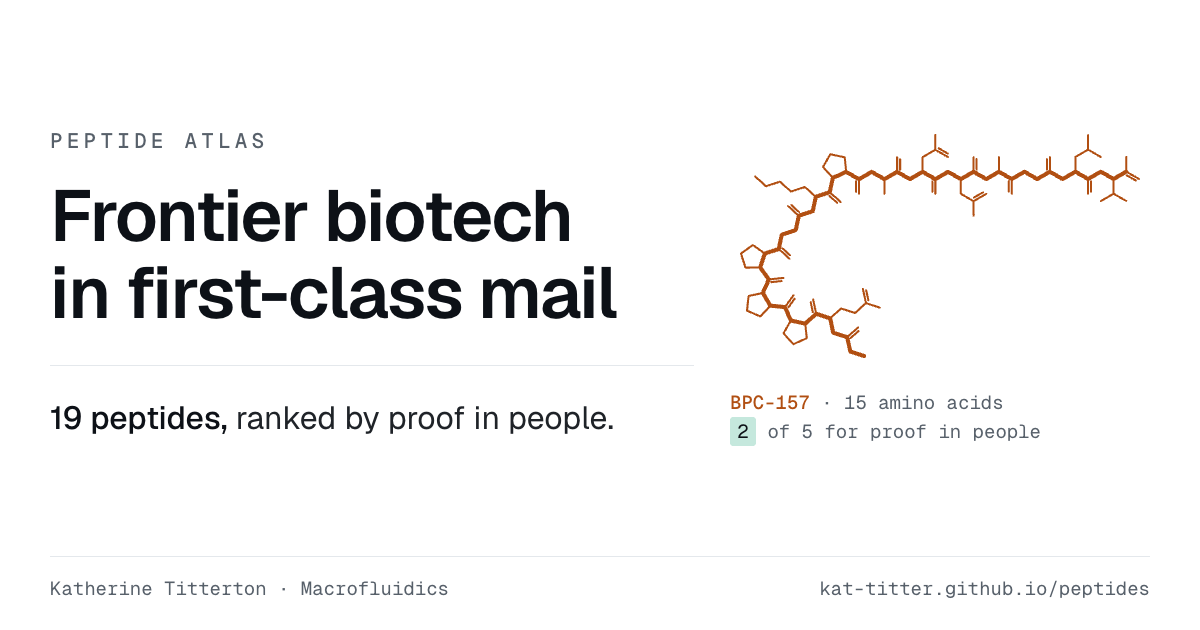
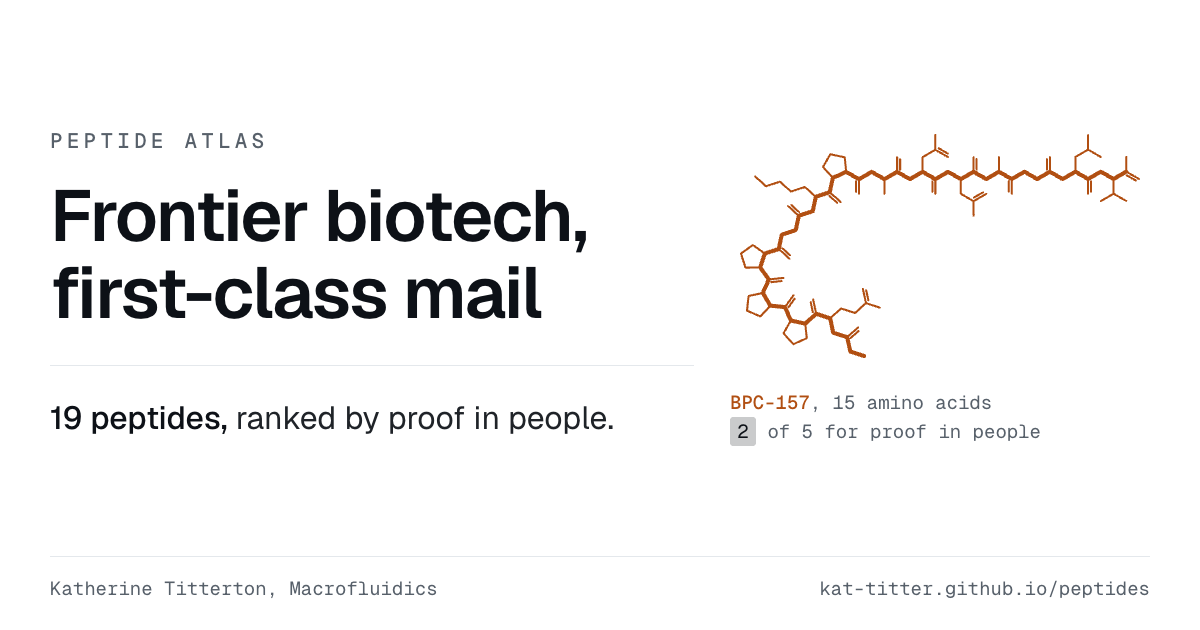
Atlas from peptide-atlas 69d124b

diff --git a/index.html b/index.html
@@ -6,14 +6,14 @@
 <meta property="og:title" content="Peptide Atlas: messages, mechanisms and money">
 <meta property="og:description" content="Nineteen peptides, from semaglutide to BPC-157, ranked by how much proof there is in people: what each one does in a cell, and who keeps the margin.">
 <meta property="og:url" content="https://kat-titter.github.io/peptides/">
-<meta property="og:image" content="https://kat-titter.github.io/peptides/card.png?v=233f6ade">
+<meta property="og:image" content="https://kat-titter.github.io/peptides/card.png?v=bce4da1b">
 <meta property="og:image:type" content="image/png">
 <meta property="og:image:width" content="1200">
 <meta property="og:image:height" content="630">
-<meta property="og:image:alt" content="The skeletal formula of BPC-157 in rust orange beside the words “Frontier biotech in first-class mail”, and the line “19 peptides, ranked by proof in people”.">
+<meta property="og:image:alt" content="The skeletal formula of BPC-157 in rust orange beside the words “Frontier biotech, first-class mail”, and the line “19 peptides, ranked by proof in people”.">
 <meta name="twitter:card" content="summary_large_image">
-<meta name="twitter:image" content="https://kat-titter.github.io/peptides/card.png?v=233f6ade">
-<meta name="twitter:image:alt" content="The skeletal formula of BPC-157 in rust orange beside the words “Frontier biotech in first-class mail”, and the line “19 peptides, ranked by proof in people”.">
+<meta name="twitter:image" content="https://kat-titter.github.io/peptides/card.png?v=bce4da1b">
+<meta name="twitter:image:alt" content="The skeletal formula of BPC-157 in rust orange beside the words “Frontier biotech, first-class mail”, and the line “19 peptides, ranked by proof in people”.">
 <meta name="viewport" content="width=device-width, initial-scale=1">
 <title>Peptide Atlas</title>
 <meta name="description" content="A textbook page on therapeutic peptides: what a peptide is, why the field is hot, how BPC-157, MOTS-c and the GLP-1 class act in the cell, the evidence behind each, the supply chain and the money. Verified sources, November 2026.">
@@ -21,10 +21,14 @@
 <link href="https://fonts.googleapis.com/css2?family=Geist:wght@400;500;600&family=Geist+Mono:wght@400;500&display=swap" rel="stylesheet">
 <style>
 :root{
-  --paper:#ffffff; --ink:#0d1117; --body:#1f2328; --muted:#57606a; --hair:#e4e8ec; --mark:#ebf3dc;
-    --glp:#ec3c6e; --smx:#9c1559; --bpc:#b14f12; --ela:#e5850f; --mtx:#11607f; --ghk:#1ca2c8; --mots:#4269e2;
-    --gb:#c4901c; --gb-g:color-mix(in srgb,var(--gb) 30%,var(--paper)); --gb-w:color-mix(in srgb,var(--gb) 55%,var(--paper));
-    --green:#0f8f6c; --green-s:color-mix(in srgb,var(--green) 22%,var(--paper)); --on:var(--ink);
+  --paper:#ffffff; --ink:#0d1117; --body:#1f2328; --muted:#57606a; --hair:#e4e8ec;
+    --glp:#ec3c6e; --bpc:#b14f12; --mots:#4269e2; --mark:#ebf3dc;
+  --green:color-mix(in srgb,var(--ink) 78%,var(--paper));
+  --smx:color-mix(in oklch,var(--glp) 62%,var(--ink));
+  --ela:color-mix(in oklch,var(--bpc) 62%,var(--paper)); --gb:color-mix(in oklch,var(--bpc) 60%,var(--ink));
+  --mtx:color-mix(in oklch,var(--mots) 60%,var(--ink)); --ghk:color-mix(in oklch,var(--mots) 62%,var(--paper));
+  --gb-g:color-mix(in srgb,var(--gb) 30%,var(--paper)); --gb-w:color-mix(in srgb,var(--gb) 55%,var(--paper));
+    --green-s:color-mix(in srgb,var(--green) 22%,var(--paper)); --on:var(--paper);
   --wash:color-mix(in srgb,var(--ink) 6%,var(--paper)); --xna:color-mix(in srgb,var(--ink) 16%,var(--paper));
   --glp-s:color-mix(in srgb,var(--glp) 22%,var(--paper)); --smx-s:color-mix(in srgb,var(--smx) 22%,var(--paper)); --bpc-s:color-mix(in srgb,var(--bpc) 22%,var(--paper)); --ela-s:color-mix(in srgb,var(--ela) 22%,var(--paper)); --mtx-s:color-mix(in srgb,var(--mtx) 22%,var(--paper)); --ghk-s:color-mix(in srgb,var(--ghk) 22%,var(--paper)); --mots-s:color-mix(in srgb,var(--mots) 22%,var(--paper));
     --ghk1:color-mix(in srgb,var(--ghk) 12%,var(--paper)); --ghk2:color-mix(in srgb,var(--ghk) 32%,var(--paper)); --ghk3:color-mix(in srgb,var(--ghk) 58%,var(--paper));
@@ -33,16 +37,12 @@
     --text:780px; --wide:740px; --fig-inset:2.5641%;     color-scheme:light dark;
 }
 @media screen and (prefers-color-scheme:dark){:root:not([data-theme="light"]){
-  --paper:#0d1117; --ink:#e6edf3; --body:#d1d9e0; --muted:#9198a1; --hair:#262c33; --mark:#262b22;
-  --glp:#f76286; --smx:#c2306f; --bpc:#bd5a30; --ela:#f8b43c; --mtx:#35789c; --ghk:#5accf2; --mots:#6b8dfb;
-  --gb:#d8ad45;
-  --green:#3fe0a0; --on:var(--paper);
+  --paper:#0d1117; --ink:#e6edf3; --body:#d1d9e0; --muted:#9198a1; --hair:#262c33;
+  --glp:#f76286; --bpc:#bd5a30; --mots:#6b8dfb; --mark:#262b22;
   --ghk2:color-mix(in srgb,var(--ghk) 30%,var(--paper)); --ghk3:color-mix(in srgb,var(--ghk) 48%,var(--paper));}}
 @media screen{:root[data-theme="dark"]{
-  --paper:#0d1117; --ink:#e6edf3; --body:#d1d9e0; --muted:#9198a1; --hair:#262c33; --mark:#262b22;
-  --glp:#f76286; --smx:#c2306f; --bpc:#bd5a30; --ela:#f8b43c; --mtx:#35789c; --ghk:#5accf2; --mots:#6b8dfb;
-  --gb:#d8ad45;
-  --green:#3fe0a0; --on:var(--paper);
+  --paper:#0d1117; --ink:#e6edf3; --body:#d1d9e0; --muted:#9198a1; --hair:#262c33;
+  --glp:#f76286; --bpc:#bd5a30; --mots:#6b8dfb; --mark:#262b22;
   --ghk2:color-mix(in srgb,var(--ghk) 30%,var(--paper)); --ghk3:color-mix(in srgb,var(--ghk) 48%,var(--paper));}}
 
 *{box-sizing:border-box}
@@ -131,7 +131,8 @@ details[open] summary{margin-bottom:16px}
 #proofstrip li[data-t="0"] b{color:var(--muted)}
 #proofstrip span{font:400 var(--s1)/1.5 var(--sans); color:var(--body)}
 #proofstrip a{text-decoration:none; border-bottom:1px solid var(--hair)}
-#proofstrip em{font-style:normal; color:color-mix(in srgb,var(--c) 72%,var(--ink))}
+#proofstrip em{font-style:normal; color:color-mix(in srgb,var(--c) 62%,var(--ink))}
+#proofstrip i{font:400 var(--s0)/1.5 var(--mono); font-style:normal; color:var(--muted); margin-right:8px}
 #proofkey{margin:8px 0 0; font-size:var(--s0)}
 @media (max-width:720px){
   #proofstrip{margin-top:12px} #proofkey{margin-top:6px}
@@ -348,14 +349,14 @@ requestAnimationFrame(loop);
 </script>
 </figure>
   <ol id="proofstrip" aria-label="The 19 peptides on this page, ranked 5 to 0 by how much proof there is in people">
-  <li data-t="5"><b>5</b><span><a href="#glp1"><em style="--c:var(--glp)">semaglutide</em></a>, <a href="#glp1"><em style="--c:var(--glp)">tirzepatide</em></a>, <em style="--c:var(--ela)">elamipretide</em>, bremelanotide, tesamorelin</span></li>
-  <li data-t="4"><b>4</b><span><a href="#glp1"><em style="--c:var(--glp)">retatrutide</em></a>, thymosin α1</span></li>
-  <li data-t="3"><b>3</b><span>CJC-1295, thymosin β4 / TB-500, <a href="#motsc"><em style="--c:var(--mots)">MOTS-c</em></a>, AOD-9604</span></li>
-  <li data-t="2"><b>2</b><span><a href="#bpc157"><em style="--c:var(--bpc)">BPC-157</em></a>, <a href="#doors"><em style="--c:var(--smx)">Semax</em></a>, <a href="#doors"><em style="--c:var(--mtx)">Matrixyl (pal-KTTKS)</em></a>, <em style="--c:var(--ghk)">GHK-Cu</em></span></li>
-  <li data-t="1"><b>1</b><span>ipamorelin, epitalon</span></li>
-  <li data-t="0"><b>0</b><span>KPV, humanin</span></li>
+  <li data-t="5"><b>5</b><span><i>approved</i><a href="#glp1"><em style="--c:var(--glp)">semaglutide</em></a>, <a href="#glp1"><em style="--c:var(--glp)">tirzepatide</em></a>, <em style="--c:var(--ela)">elamipretide</em>, bremelanotide, tesamorelin</span></li>
+  <li data-t="4"><b>4</b><span><i>randomised trials</i><a href="#glp1"><em style="--c:var(--glp)">retatrutide</em></a>, thymosin α1</span></li>
+  <li data-t="3"><b>3</b><span><i>small human studies</i>CJC-1295, thymosin β4 / TB-500, <a href="#motsc"><em style="--c:var(--mots)">MOTS-c</em></a>, AOD-9604</span></li>
+  <li data-t="2"><b>2</b><span><i>animals</i><a href="#bpc157"><em style="--c:var(--bpc)">BPC-157</em></a>, <a href="#doors"><em style="--c:var(--smx)">Semax</em></a>, <a href="#doors"><em style="--c:var(--mtx)">Matrixyl (pal-KTTKS)</em></a>, <em style="--c:var(--ghk)">GHK-Cu</em></span></li>
+  <li data-t="1"><b>1</b><span><i>cells</i>ipamorelin, epitalon</span></li>
+  <li data-t="0"><b>0</b><span><i>none</i>KPV, humanin</span></li>
  </ol>
-  <p class="k" id="proofkey">5 approved in people · 0 no human trial</p>
+  <p class="k" id="proofkey"><a href="#matrix">ranked by proof in people</a></p>
  </div>
 <nav aria-label="Contents"><ol><li><a href="#intro"><b>00</b>intro</a></li><li><a href="#map"><b>01</b>the cell</a></li><li><a href="#glp1"><b>02</b>GLP-1</a></li><li><a href="#motsc"><b>03</b>MOTS-c</a></li><li><a href="#bpc157"><b>04</b>BPC-157</a></li><li><a href="#doors"><b>05</b>nose, skin</a></li><li><a href="#matrix"><b>06</b>ranked</a></li><li><a href="#supply"><b>07</b>supply</a></li><li><a href="#evidence"><b>08</b>how to read</a></li><li><a href="#appendix"><b>A</b>appendix</a></li><li><a href="#refs"><b>R</b>refs</a></li></ol></nav>
 </div></div></header>
@@ -5329,7 +5330,7 @@ L 1042.3 226.6
 <section class="ch" id="matrix"><div class="wrap">
  <div class="k"><button class="fold" type="button" aria-expanded="true" aria-controls="matrix"><b>06</b><span class="vh">Every peptide here, ranked by proof in people</span></button></div>
  <h2>Every peptide here, ranked by proof in people</h2>
- <p>Darker green means more proof in people. And who paid for the dark rows? Each dark row had an owner with the money to run a trial programme. The new HHS list is all pale rows. Each scores 3 or below, and its 3s belong to a close copy (CB4211) and to eye drops of the parent protein (RGN-259) — not to the vials being sold.</p>
+ <p>Darker means more proof in people. And who paid for the dark rows? Each dark row had an owner with the money to run a trial programme. The new HHS list is all pale rows. Each scores 3 or below, and its 3s belong to a close copy (CB4211) and to eye drops of the parent protein (RGN-259) — not to the vials being sold.</p>
  <div class="linked">
  <p class="k" aria-label="site of action">click a site to pick out its peptides: <span class="key" data-k="rec" tabindex="0">membrane receptor</span> <span class="key" data-k="fib" tabindex="0">fibres and matrix</span> <span class="key" data-k="nuc" tabindex="0">nucleus</span> <span class="key" data-k="mit" tabindex="0">mitochondrion</span> <span class="key" data-k="tra" tabindex="0">transporter, other</span></p>
  <div class="scroll"><table class="mx">
@@ -5355,7 +5356,7 @@ L 1042.3 226.6
    <tr data-k="tra"><td><i class="sw" style="--c:var(--muted)"></i><b>KPV</b></td><td>3</td><td class="ph">α-MSH fragment</td><td>PepT1 (gut)</td><td class="ph">oral, topical</td><td class="ph">—</td><td data-t="0"><span class="term" tabindex="0">0<span class="tc">mouse colitis; FDA found no human exposure data<sup class="ref"><a href="#r11">11</a></sup></span></span></td><td>HHS draft (oral/topical)</td><td class="ph">mice only<sup class="ref"><a href="#r58">58</a></sup></td></tr>
    <tr data-k="mit"><td><i class="sw" style="--c:var(--muted)"></i><b>humanin</b></td><td>24</td><td class="ph">endogenous, mtDNA</td><td>cytoprotection</td><td class="ph">—</td><td class="ph">—</td><td data-t="0"><span class="term" tabindex="0">0<span class="tc">no human trial retrieved</span></span></td><td><span class="k">not nominated</span></td><td class="ph">MDP family<sup class="ref"><a href="#r52">52</a></sup></td></tr>
   </tbody></table></div>
-  <p class="k"><span class="key"><span class="tier" data-t="5" role="img" aria-label="evidence 5 of 5"><i></i><i></i><i></i><i></i><i></i></span>5 FDA approved</span> <span class="key"><span class="tier" data-t="4" role="img" aria-label="evidence 4 of 5"><i></i><i></i><i></i><i></i><i></i></span>4</span> <span class="key"><span class="tier" data-t="3" role="img" aria-label="evidence 3 of 5"><i></i><i></i><i></i><i></i><i></i></span>3</span> <span class="key"><span class="tier" data-t="2" role="img" aria-label="evidence 2 of 5"><i></i><i></i><i></i><i></i><i></i></span>2</span> <span class="key"><span class="tier" data-t="1" role="img" aria-label="evidence 1 of 5"><i></i><i></i><i></i><i></i><i></i></span>1</span> <span class="key"><span class="tier" data-t="0" role="img" aria-label="evidence 0 of 5"><i></i><i></i><i></i><i></i><i></i></span>0 none</span> <span>status from FDA's 2026-04-22 list<sup class="ref"><a href="#r11">11</a></sup> and the HHS draft<sup class="ref"><a href="#r14">14</a></sup></span></p>
+  <p class="k"><span class="key"><span class="tier" data-t="5" role="img" aria-label="evidence 5 of 5"><i></i><i></i><i></i><i></i><i></i></span>5 FDA approved</span> <span class="key"><span class="tier" data-t="4" role="img" aria-label="evidence 4 of 5"><i></i><i></i><i></i><i></i><i></i></span>4 randomised trials</span> <span class="key"><span class="tier" data-t="3" role="img" aria-label="evidence 3 of 5"><i></i><i></i><i></i><i></i><i></i></span>3 small human studies</span> <span class="key"><span class="tier" data-t="2" role="img" aria-label="evidence 2 of 5"><i></i><i></i><i></i><i></i><i></i></span>2 animals</span> <span class="key"><span class="tier" data-t="1" role="img" aria-label="evidence 1 of 5"><i></i><i></i><i></i><i></i><i></i></span>1 cells</span> <span class="key"><span class="tier" data-t="0" role="img" aria-label="evidence 0 of 5"><i></i><i></i><i></i><i></i><i></i></span>0 none</span> <span>status from FDA's 2026-04-22 list<sup class="ref"><a href="#r11">11</a></sup> and the HHS draft<sup class="ref"><a href="#r14">14</a></sup></span></p>
  </div>
  
  </div></section>
@@ -5644,7 +5645,7 @@ L 1042.3 226.6
   <span class="key" data-k="cap" tabindex="0"><i class="sw" data-s="band"></i>the cap and its glycine</span>
  </div>
  <figcaption><span class="k">Figure 18</span><b>GB-115, the one peptide among the compounds Everychem sells, is glycine and tryptophan behind a phenylhexanoyl cap.</b>
- It is a reversed copy of cholecystokinin-4 (CCK-4), a four-residue piece of the hormone cholecystokinin that causes anxiety; in rats and mice GB-115 prevented anxiety brought on by CCK-4, and its authors conclude the two share a target.<sup class="ref"><a href="#r88">88</a></sup> Its active shape is a &#946;-turn, a tight hairpin of the backbone.<sup class="ref"><a href="#r89">89</a></sup> It wears ochre here and on the companion page that takes that seller&#8217;s shelf compound by compound, where it is drawn at its target: the Everychem basket, GB-115.</figcaption>
+ It is a reversed copy of cholecystokinin-4 (CCK-4), a four-residue piece of the hormone cholecystokinin that causes anxiety; in rats and mice GB-115 prevented anxiety brought on by CCK-4, and its authors conclude the two share a target.<sup class="ref"><a href="#r88">88</a></sup> Its active shape is a &#946;-turn, a tight hairpin of the backbone.<sup class="ref"><a href="#r89">89</a></sup> The companion page that takes that seller&#8217;s shelf compound by compound draws it at its target: the Everychem basket, GB-115.</figcaption>
 </figure>
  <div class="read">
  <p><b>Ask the species.</b> Most peptide claims are true — in a rat. The FDA's own standard for ulcerative colitis is a modified Mayo score over at least a year.<sup class="ref"><a href="#r13">13</a></sup> BPC-157&#8217;s only trial ran two weeks and reported a composite index its abstract did not define.</p>

diff --git a/README.md b/README.md
@@ -1,0 +1,8 @@
+# Peptide Atlas
+
+What semaglutide, BPC-157, MOTS-c and copper peptide do in a cell, and how much proof each has in people.
+
+Read it: https://kat-titter.github.io/peptides/
+
+This repository holds the built page (`index.html`) and its share card, published by a deploy script from a private
+working repository. By Kat Titterton.
